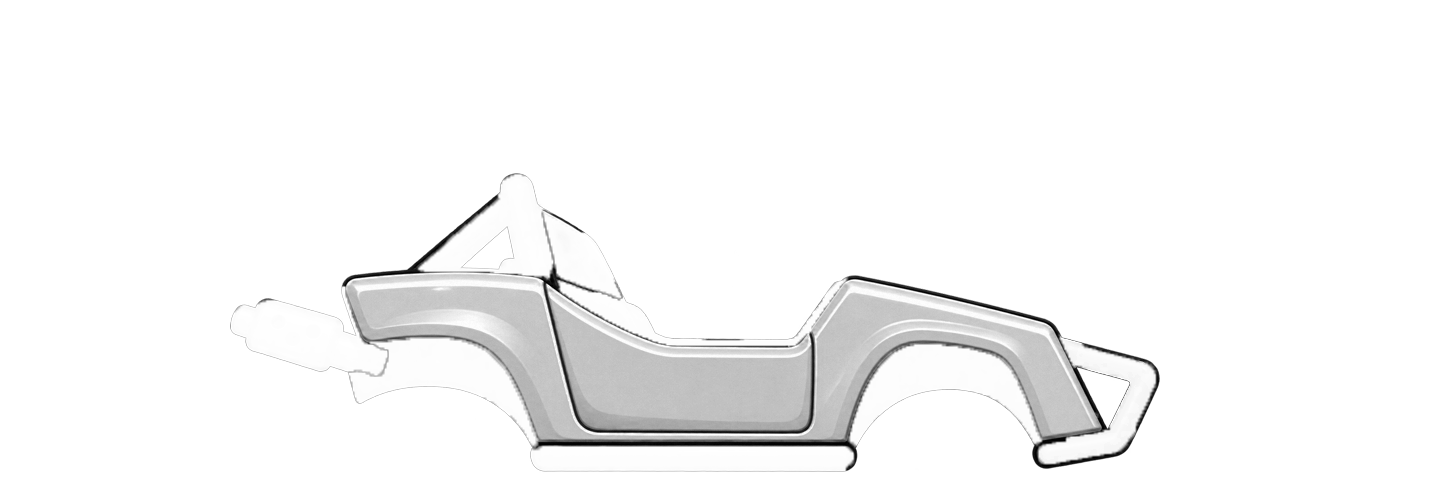
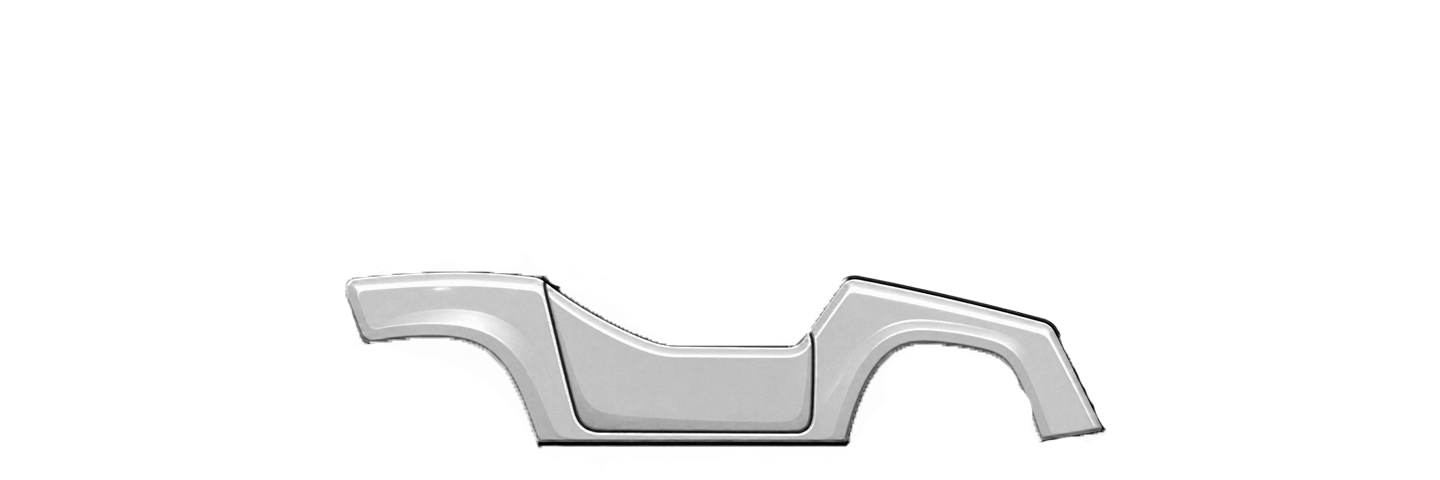
Correção na nova versão da oficina

diff --git a/src/utils/carEquipments.ts b/src/utils/carEquipments.ts
@@ -27,6 +27,34 @@ export type CarEquipmentSet = Partial<Record<EquipmentCategory, CarEquipment[]>>
  * Adicione os requires conforme os assets forem sendo criados.
  */
 export const CAR_EQUIPMENTS: Partial<Record<string, CarEquipmentSet>> = {
+  buggy: {
+    frontBumpers: [
+      {
+        id: 'buggy_front_sport_01',
+        name: 'Sport I',
+        image: require('@/assets/images/cars/carroceria/buggy/frontBumper/front_sport_01.png'),
+        requiredLevel: 1,
+        price: 100,
+      },
+    ],
+    rearBumpers: [
+      {
+        id: 'buggy_rear_sport_01',
+        name: 'Sport I',
+        image: require('@/assets/images/cars/carroceria/buggy/rearBumper/rear_sport_01.png'),
+        requiredLevel: 1,
+        price: 100,
+      },
+    ],
+    spoilers: [{
+      id: 'buggy_spoiler_sport_01',
+      name: 'Sport I',
+      image: require('@/assets/images/cars/carroceria/buggy/spoiler/buggy_spoiler_sport_01.png'),
+      requiredLevel: 1,
+      price: 100,
+    },],
+    sideSkirts: [],
+  },
   fusca: {
     frontBumpers: [
       {
@@ -50,11 +78,11 @@ export const EQUIPMENT_CATEGORIES: Array<{
   slot: EquipmentSlot;
   label: string;
 }> = [
-  { key: 'frontBumpers', slot: 'frontBumper', label: 'Para-choque dianteiro' },
-  { key: 'rearBumpers', slot: 'rearBumper', label: 'Para-choque traseiro' },
-  { key: 'spoilers', slot: 'spoiler', label: 'Aerofólio' },
-  { key: 'sideSkirts', slot: 'sideSkirt', label: 'Saias laterais' },
-];
+    { key: 'frontBumpers', slot: 'frontBumper', label: 'Para-choque dianteiro' },
+    { key: 'rearBumpers', slot: 'rearBumper', label: 'Para-choque traseiro' },
+    { key: 'spoilers', slot: 'spoiler', label: 'Aerofólio' },
+    { key: 'sideSkirts', slot: 'sideSkirt', label: 'Saias laterais' },
+  ];
 
 export const getAvailableEquipmentCategories = (carId: string) => {
   const carEquipment = CAR_EQUIPMENTS[carId];

diff --git a/app/CarSelectionScreen.tsx b/app/CarSelectionScreen.tsx
@@ -257,7 +257,7 @@ export default function CarSelectionScreen() {
             setSelectedEquipment(previewEquipment);
         }
 
-        router.push({ pathname: '/LoadingScreen', params: { next: '/CarStore' } });
+        router.push('/CarStore' as any);
     };
 
     const resetProfile =
@@ -275,7 +275,7 @@ export default function CarSelectionScreen() {
             setSelectedEquipment(previewEquipment);
         }
 
-        router.push({ pathname: '/LoadingScreen', params: { next: '/OficinaScreen' } });
+        router.push('/OficinaScreen' as any);
     };
 
     const handleContinue = () => {

diff --git a/app/CarStore.tsx b/app/CarStore.tsx
@@ -1,4 +1,3 @@
-import CarEquipmentLayers from '@/components/Game/CarEquipmentLayers';
 import SkiaCarBody from '@/components/Game/SkiaCarBody';
 import WildBackButton from '@/components/ui/WildBackButton';
 import { useCarSelection } from '@/context/CarContext';
